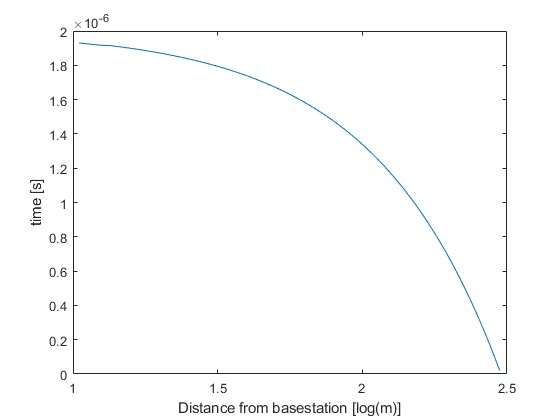
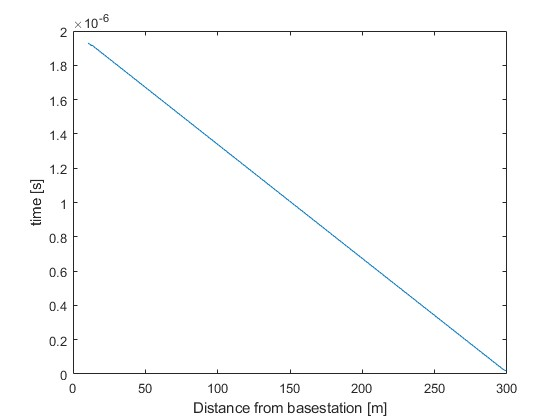
added figures

diff --git a/main.m b/main.m
@@ -4,11 +4,11 @@ clc;
 
 %% enables
 
-enable_LOS = 0;
-enable_ground_reflections = 0;
-enable_diffraction = 0;
+enable_LOS = 1;
+enable_ground_reflections = 1;
+enable_diffraction = 1;
 
-enable_one_reflection = 0;
+enable_one_reflection = 1;
 enable_left_wall_reflection = 1;
 enable_right_wall_reflection = 1;
 enable_bottom_wall_reflection = 1;
@@ -17,14 +17,14 @@ enable_rue_du_rouleau = 1;
 enable_rue_du_peuplier = 1;
 
 enable_double_reflections = 1;
-enable_left_and_right_wall = 0;
-enable_left_and_bottom_wall = 0;
-enable_left_and_streets = 0;
-enable_right_and_left_wall = 0;
-enable_right_and_bottom_wall = 0;
-enable_bottom_and_left_wall = 0;
-enable_bottom_and_right_wall = 0;
-enable_bottom_and_streets = 0;
+enable_left_and_right_wall = 1;
+enable_left_and_bottom_wall = 1;
+enable_left_and_streets = 1;
+enable_right_and_left_wall = 1;
+enable_right_and_bottom_wall = 1;
+enable_bottom_and_left_wall = 1;
+enable_bottom_and_right_wall = 1;
+enable_bottom_and_streets = 1;
 enable_streets_and_streets = 1;
 
 
@@ -46,8 +46,8 @@ time_resolution = 1/BW; %s
 bs_to_wall_x = log10(10.5:299.5);
 connection_probability = [0.99 0.90 0.80 0.60 0.50];
 
-ray_traced_position = [15.5 ; 128.5];
-impulse_position = [15.5; 128.5]; %point where impulse response will be plotted
+ray_traced_position = [39.5 ; 275.5];
+impulse_position = [39.5; 275.5]; %point where impulse response will be plotted
 
 
 %% draw image
@@ -232,9 +232,9 @@ title('Delay Spread as a heatmap')
 
 %plot BS to bottom wall
 figure
-plot(bs_to_wall_x, delay_spread(line_index))
+plot(10.^(bs_to_wall_x), delay_spread(line_index))
 %set(gca, 'XDir','reverse')
-xlabel('Distance from basestation [log(m)]')
+xlabel('Distance from basestation [m]')
 ylabel('time [s]')
 title('Delay Spread between basestation and bottom wall')
 
@@ -265,21 +265,19 @@ hold on
 stem(single_impulse_response(2, :), abs(single_impulse_response(1, :)))
 xlabel('delay [s]')
 ylabel('Amplitude')
-title('Channel impulse response')
+%title('Channel impulse response')
 
 %tapped delay line (assume unccorrelated scattering)
 % narrow band
 amount_of_taps = ceil(max(single_impulse_response(2,:))/time_resolution);  
 taps = (1:amount_of_taps)*time_resolution;
-figure
-hold on
-stem(taps(find(mean(single_impulse_response(2, :)) <= taps, 1, 'first')), abs(sum(single_impulse_response(1, :))))
+stem(taps(find(max(single_impulse_response(2, :)) <= taps, 1, 'first')), abs(sum(single_impulse_response(1, :))))
 xlabel('delay [s]')
 ylabel('Amplitude')
-title('Channel impulse response narrow band (Tapped delay line)')
+%title('Channel impulse response narrow band (Tapped delay line)')
 
-
-time_resolutions = time_resolution*[1 0.1 0.01 10 100];
+time_resolution = 1/BW;
+time_resolutions = time_resolution*[10 1 0.1 0.01];
 
 for a = 1:length(time_resolutions)
     time_resolution = time_resolutions(a);
@@ -293,13 +291,13 @@ for a = 1:length(time_resolutions)
         end
         taps_amplitude(j) = taps_amplitude(j) + single_impulse_response(1,i);
     end
-    figure
-    hold on
-    stem(taps,abs(taps_amplitude))
+    stem(taps(find((abs(taps_amplitude)) ~= 0)),nonzeros(abs(taps_amplitude)))
     xlabel('delay [s]')
     ylabel('Amplitude ')
-    title('Channel impulse response wideband (Tapped delay line) with time resolution', time_resolution)
+    %title('Channel impulse response wideband (Tapped delay line) with time resolution', time_resolution)
 end
+
+legend('Fysical channel', 'narrowband', 'bandwidth '+string(1/time_resolutions(1)/1000000)+'MHz', 'bandwidth '+string(1/time_resolutions(2)/1000000)+'MHz', 'bandwidth '+string(1/time_resolutions(2)/1000000)+'MHz', 'bandwidth '+string(1/time_resolutions(3)/1000000)+'MHz', 'bandwidth '+string(1/time_resolutions(4)/1000000)+'MHz')
 
 
 %% Link budget

diff --git a/drawRayTracingLines.m b/drawRayTracingLines.m
@@ -302,7 +302,7 @@ if(impulse_response(ray_tracing_index,1,17) ~= 0)
             j = j + 1;
         end
     end
-    [amount_of_intersec, intersections_mirror1] = intersectionCalculator(x, y, intersections(:,2), tx_x_mirror1, tx_y_mirror1, 1);
+    [amount_of_intersec, intersections_mirror1] = intersectionCalculator(x, y, intersections(:,1), tx_x_mirror1, tx_y_mirror1, 1);
     j = 1;
     while j <= amount_of_intersec
         if(intersections_mirror1(2,j) ~= 0)
